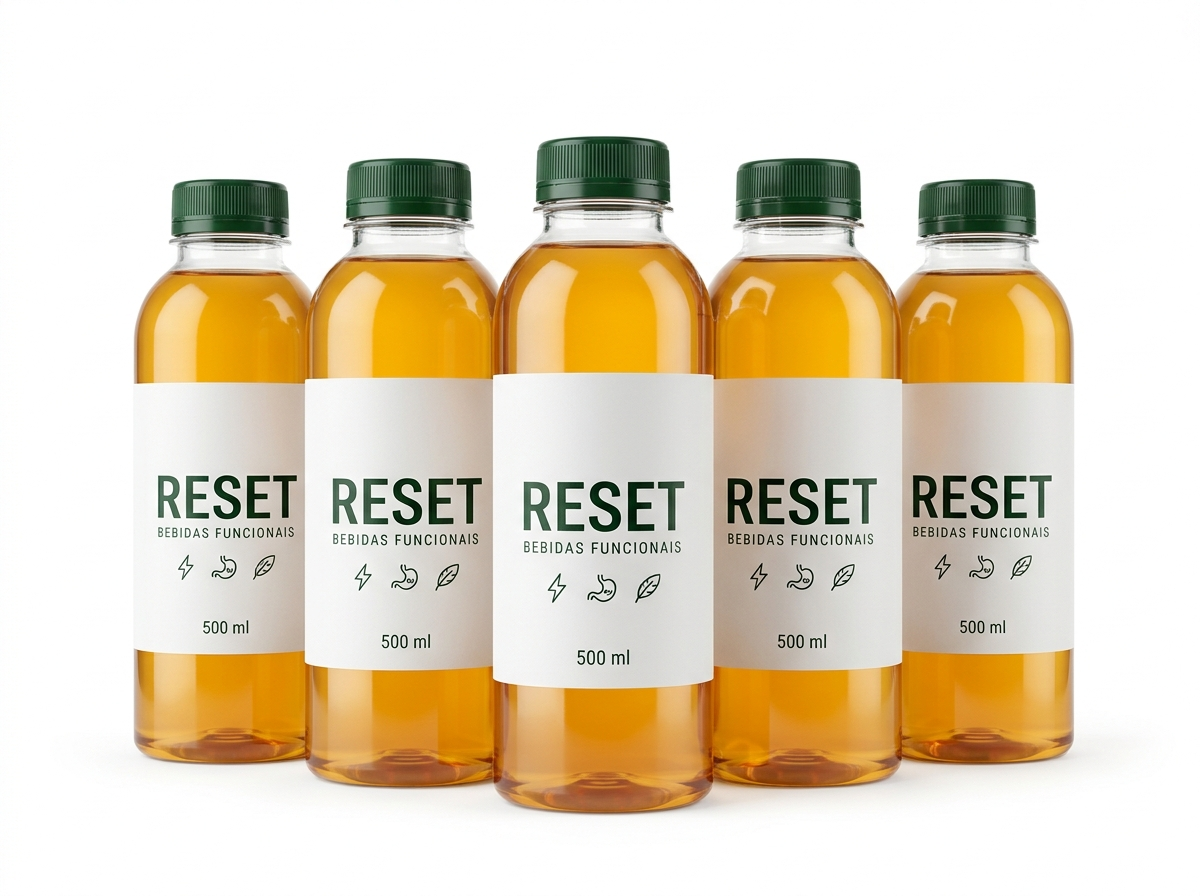
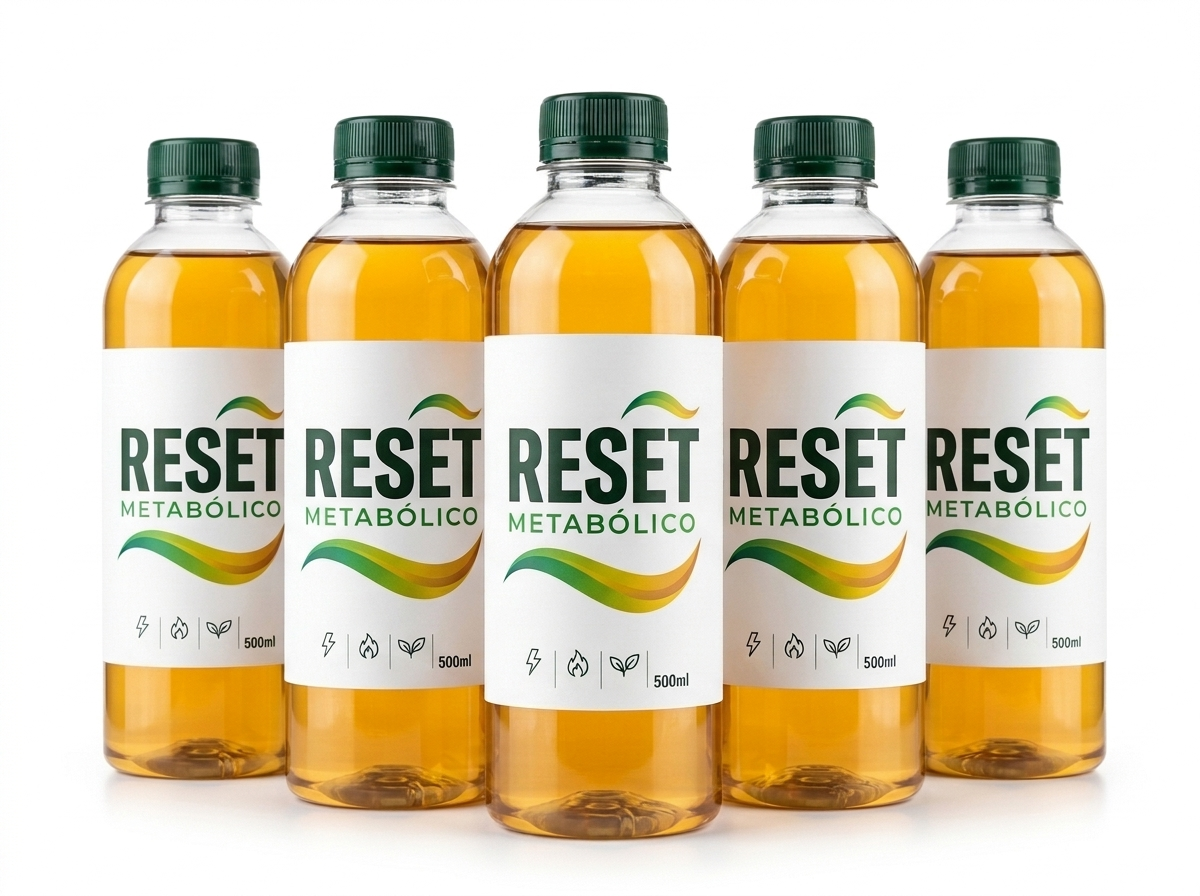
feat: Aplica logotipo oficial Reset Metabolico com arcos verde e dourado nos rotulos das 5 garrafas do Kit Semanal 5 Dias

diff --git a/sw.js b/sw.js
@@ -1,5 +1,5 @@
 // Service Worker - Litrão do Reset & Plataforma Herbalife (PWA)
-const CACHE_NAME = 'litrao-reset-v48';
+const CACHE_NAME = 'litrao-reset-v49';
 const ASSETS_TO_CACHE = [
   '/',
   '/index.html',
